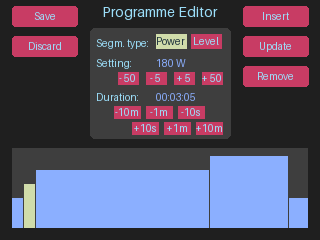
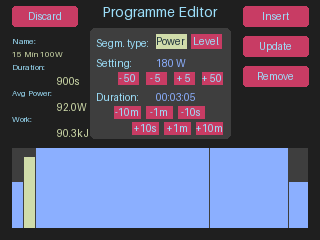
progEdit Front end 100% done (maybe)

diff --git a/screen.py b/screen.py
@@ -123,7 +123,7 @@ class ScreenManager:
         
         font = ImageFont.load_default(10)
         for i, label in enumerate(button_label):
-            button_xy = (X_Pos, Y_Pos + i * 30)
+            button_xy = (X_Pos, Y_Pos)
             button_xy += (button_xy[0] + button_dims[0], button_xy[1] + button_dims[1])
             button_centre = (button_xy[0] + button_dims[0] / 2, button_xy[1] + button_dims[1] / 2)
             
@@ -140,7 +140,27 @@ class ScreenManager:
                                 anchor="mm")
             
             touchActiveRegions += ((button_xy, label),)
+            Y_Pos += i * 30
 
+
+        
+        paramsLabels = ("Name:", "Duration:", "Avg Power:", "Work:")
+        paramsUnits = ("", "s", "W", "kJ")
+        paramsXoffsets = (0, 40,40,40)
+        paramsFontSize = (8, 10,10,10)
+
+        for label, unit, Xoffset, size, value, in zip(paramsLabels, paramsUnits, paramsXoffsets, paramsFontSize, programme.getParameters()):
+            
+            font = ImageFont.load_default(8)
+            draw.text(xy=(X_Pos, Y_Pos), text=label, fill=self.COLOUR_TEXT_LIGHT, font=font)
+            Y_Pos += 13
+
+            font = ImageFont.load_default(size)
+            draw.text(xy=(X_Pos + Xoffset, Y_Pos), text=str(value)+unit, fill=self.COLOUR_OUTLINE, font=font)
+            Y_Pos += 13
+
+
+        font = ImageFont.load_default(10)
         button_label = tuple()
         if selected_segment is None:
             button_label += ("Add",)
@@ -171,7 +191,6 @@ class ScreenManager:
             touchActiveRegions += ((button_xy, label),)
 
         ## central edit box
-        font = ImageFont.load_default(8)
         font = ImageFont.load_default(10)
 
         box_wd = (140, 110)
@@ -212,8 +231,6 @@ class ScreenManager:
 
             X_Pos += 35
 
-
-        
         X_Pos -= 130
         Y_Pos += 20
         draw.text(xy=(X_Pos, Y_Pos+5), text="Setting: ", anchor="lt", fill=self.COLOUR_TEXT_LIGHT, font=font)

diff --git a/datatypes.py b/datatypes.py
@@ -5,6 +5,7 @@ from collections import namedtuple
 
 
 User = namedtuple("User", ["Name", "Max_HR", "FTP"])
+WorkoutParameters = namedtuple("WorkoutParameters", ["name", "totalDuration", "avgPower", "maxPower", "totalWork", "avgLevel", "segmentsChartData", "minPower"])
 
 class UserList:
     def __init__(self) -> None:
@@ -31,16 +32,16 @@ class MinMaxIncrement:
         self.increment = 0
 
 
-class WorkoutParameters:
-     def __init__(self, name, totalDuration, avgPower, maxPower, totWork, avgLevel, segChartData, minPow) -> None:
-        self.name = name
-        self.totalDuration = totalDuration
-        self.avgPower = avgPower
-        self.totalWork = totWork
-        self.avgLevel = avgLevel
-        self.segmentsChartData:list = segChartData
-        self.maxPower = maxPower
-        self.minPower = minPow
+#class WorkoutParameters:
+ #    def __init__(self, name, totalDuration, avgPower, maxPower, totWork, avgLevel, segChartData, minPow) -> None:
+  #      self.name = name
+   #     self.totalDuration = totalDuration
+    #    self.avgPower = avgPower
+     #   self.totalWork = totWork
+      #  self.avgLevel = avgLevel
+       # self.segmentsChartData:list = segChartData
+        #self.maxPower = maxPower
+        #self.minPower = minPow
 
 
 
@@ -90,7 +91,7 @@ class WorkoutProgram:
         except:
             pass
 
-        return WorkoutParameters(self.name, totalDuration, averagePower, maxPower, totalWork, averageLevel, segmentChartData, minPower)
+        return WorkoutParameters(self.name, totalDuration, averagePower, totalWork, maxPower, averageLevel, segmentChartData, minPower)
 
 
 
